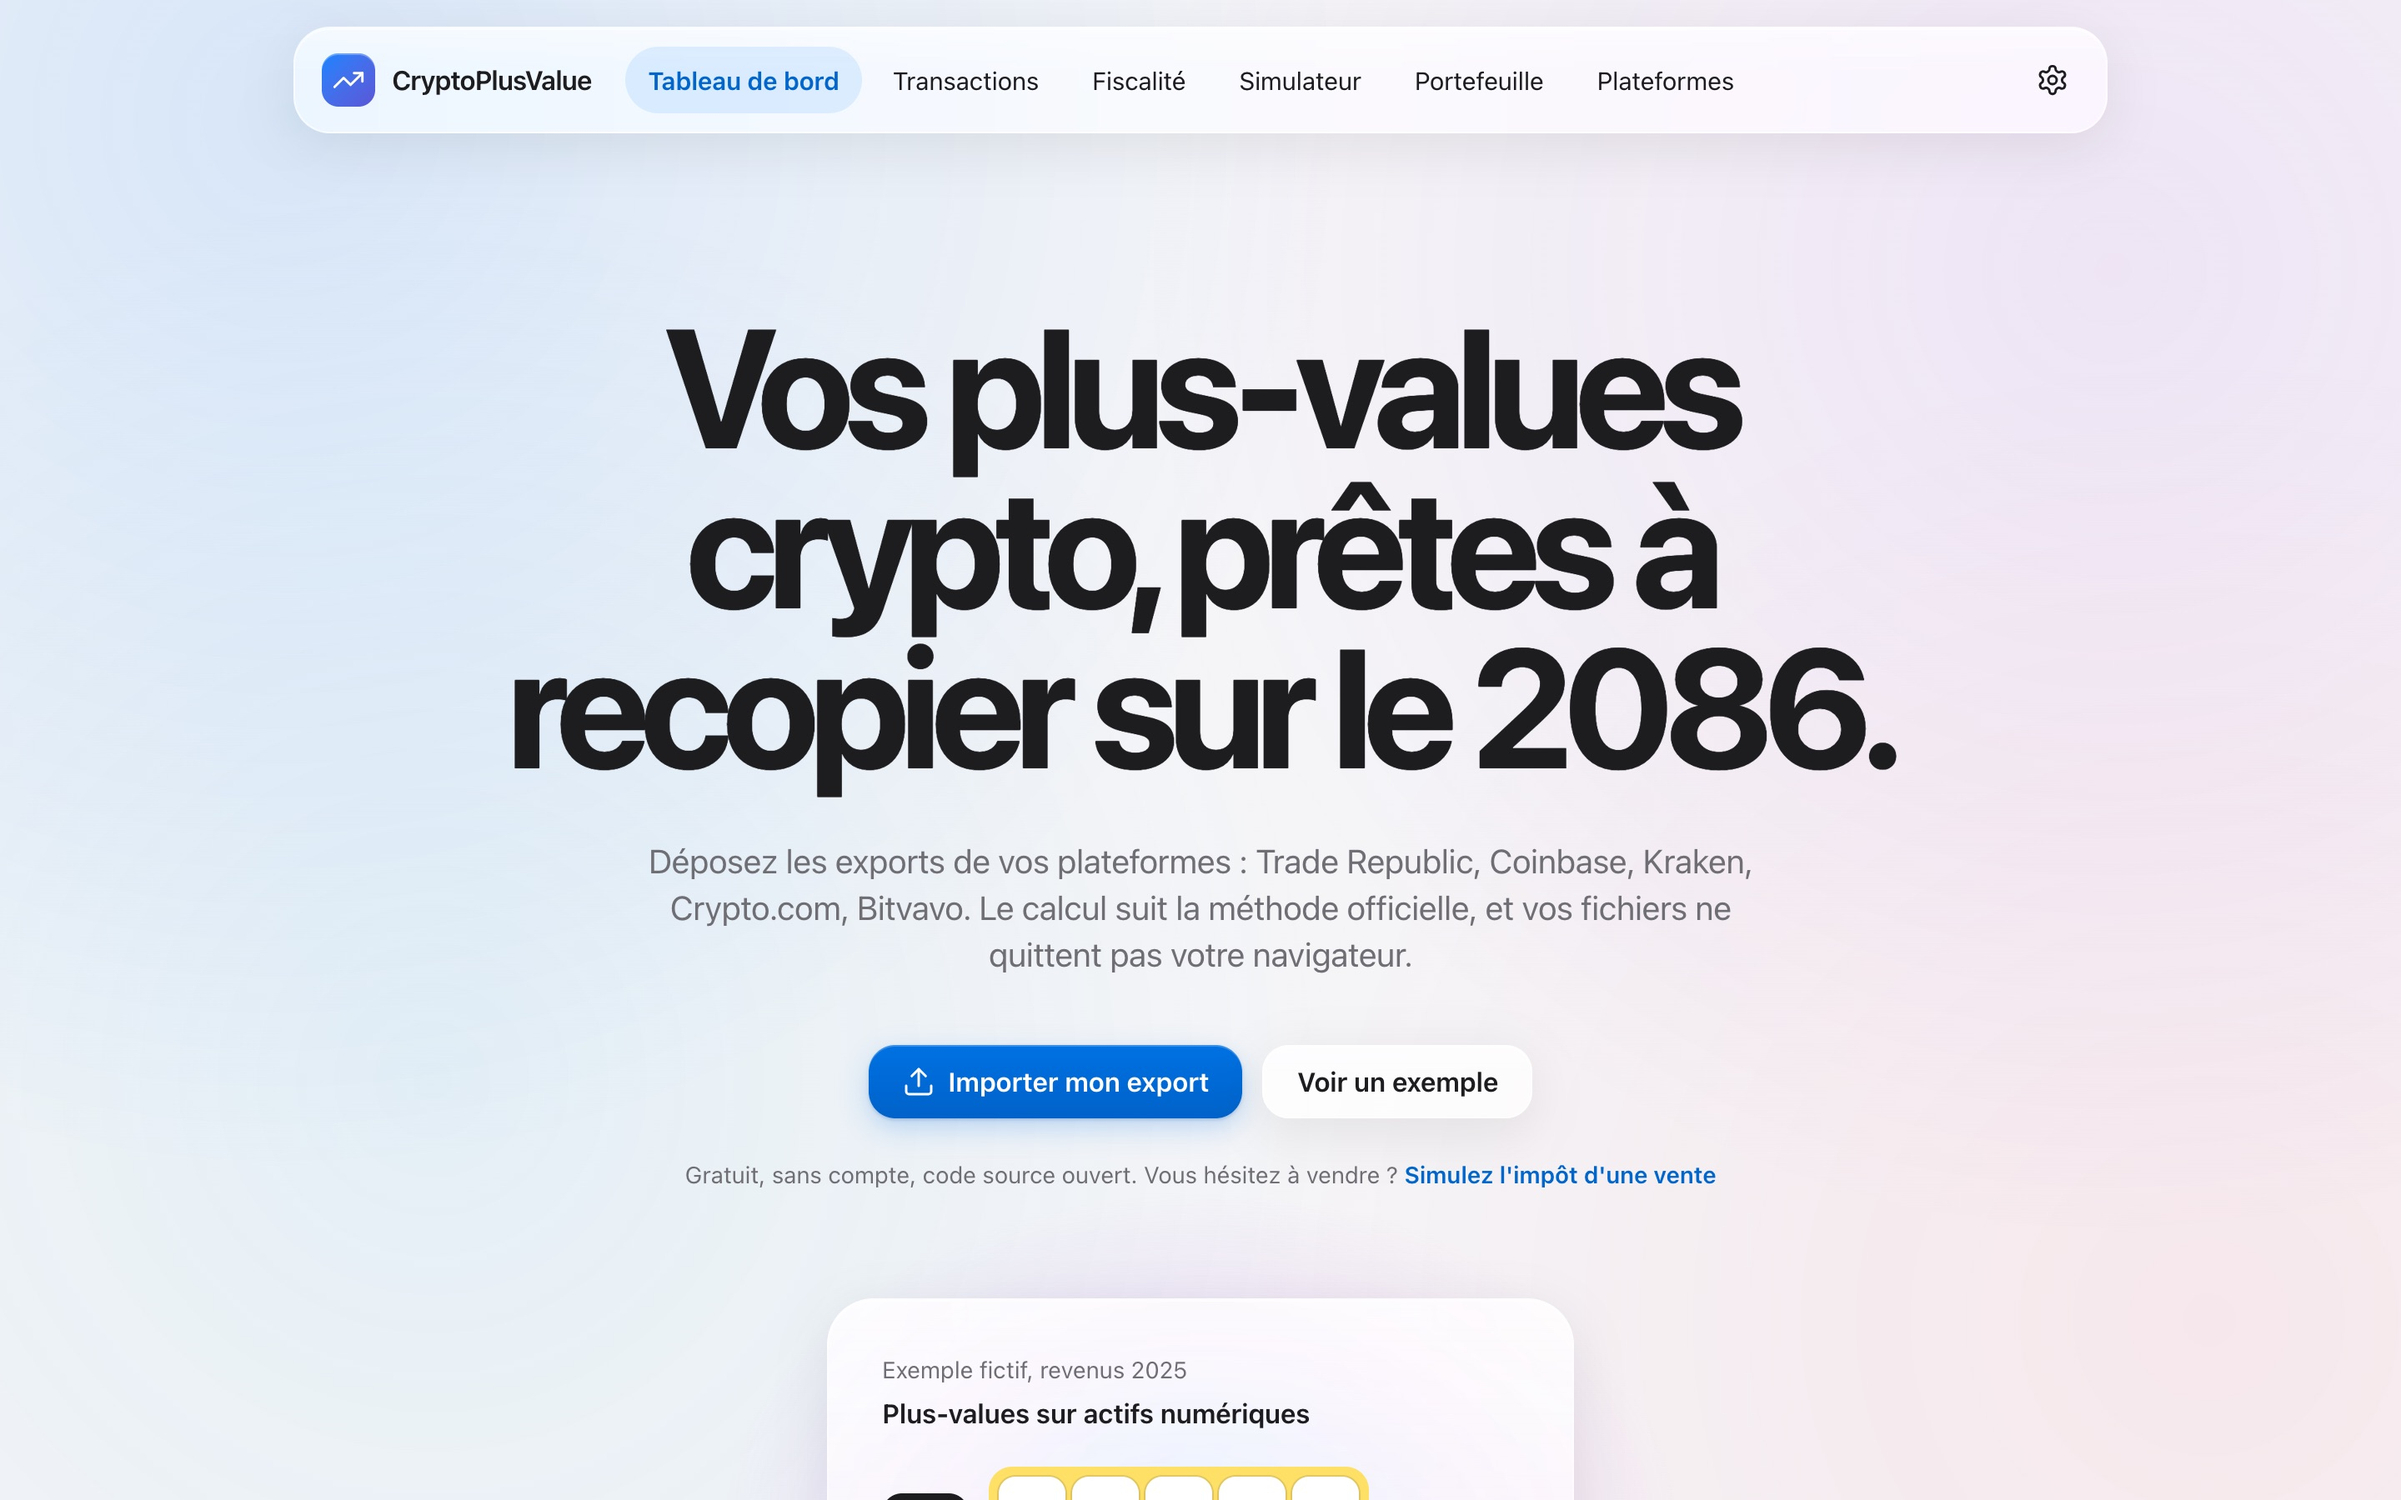
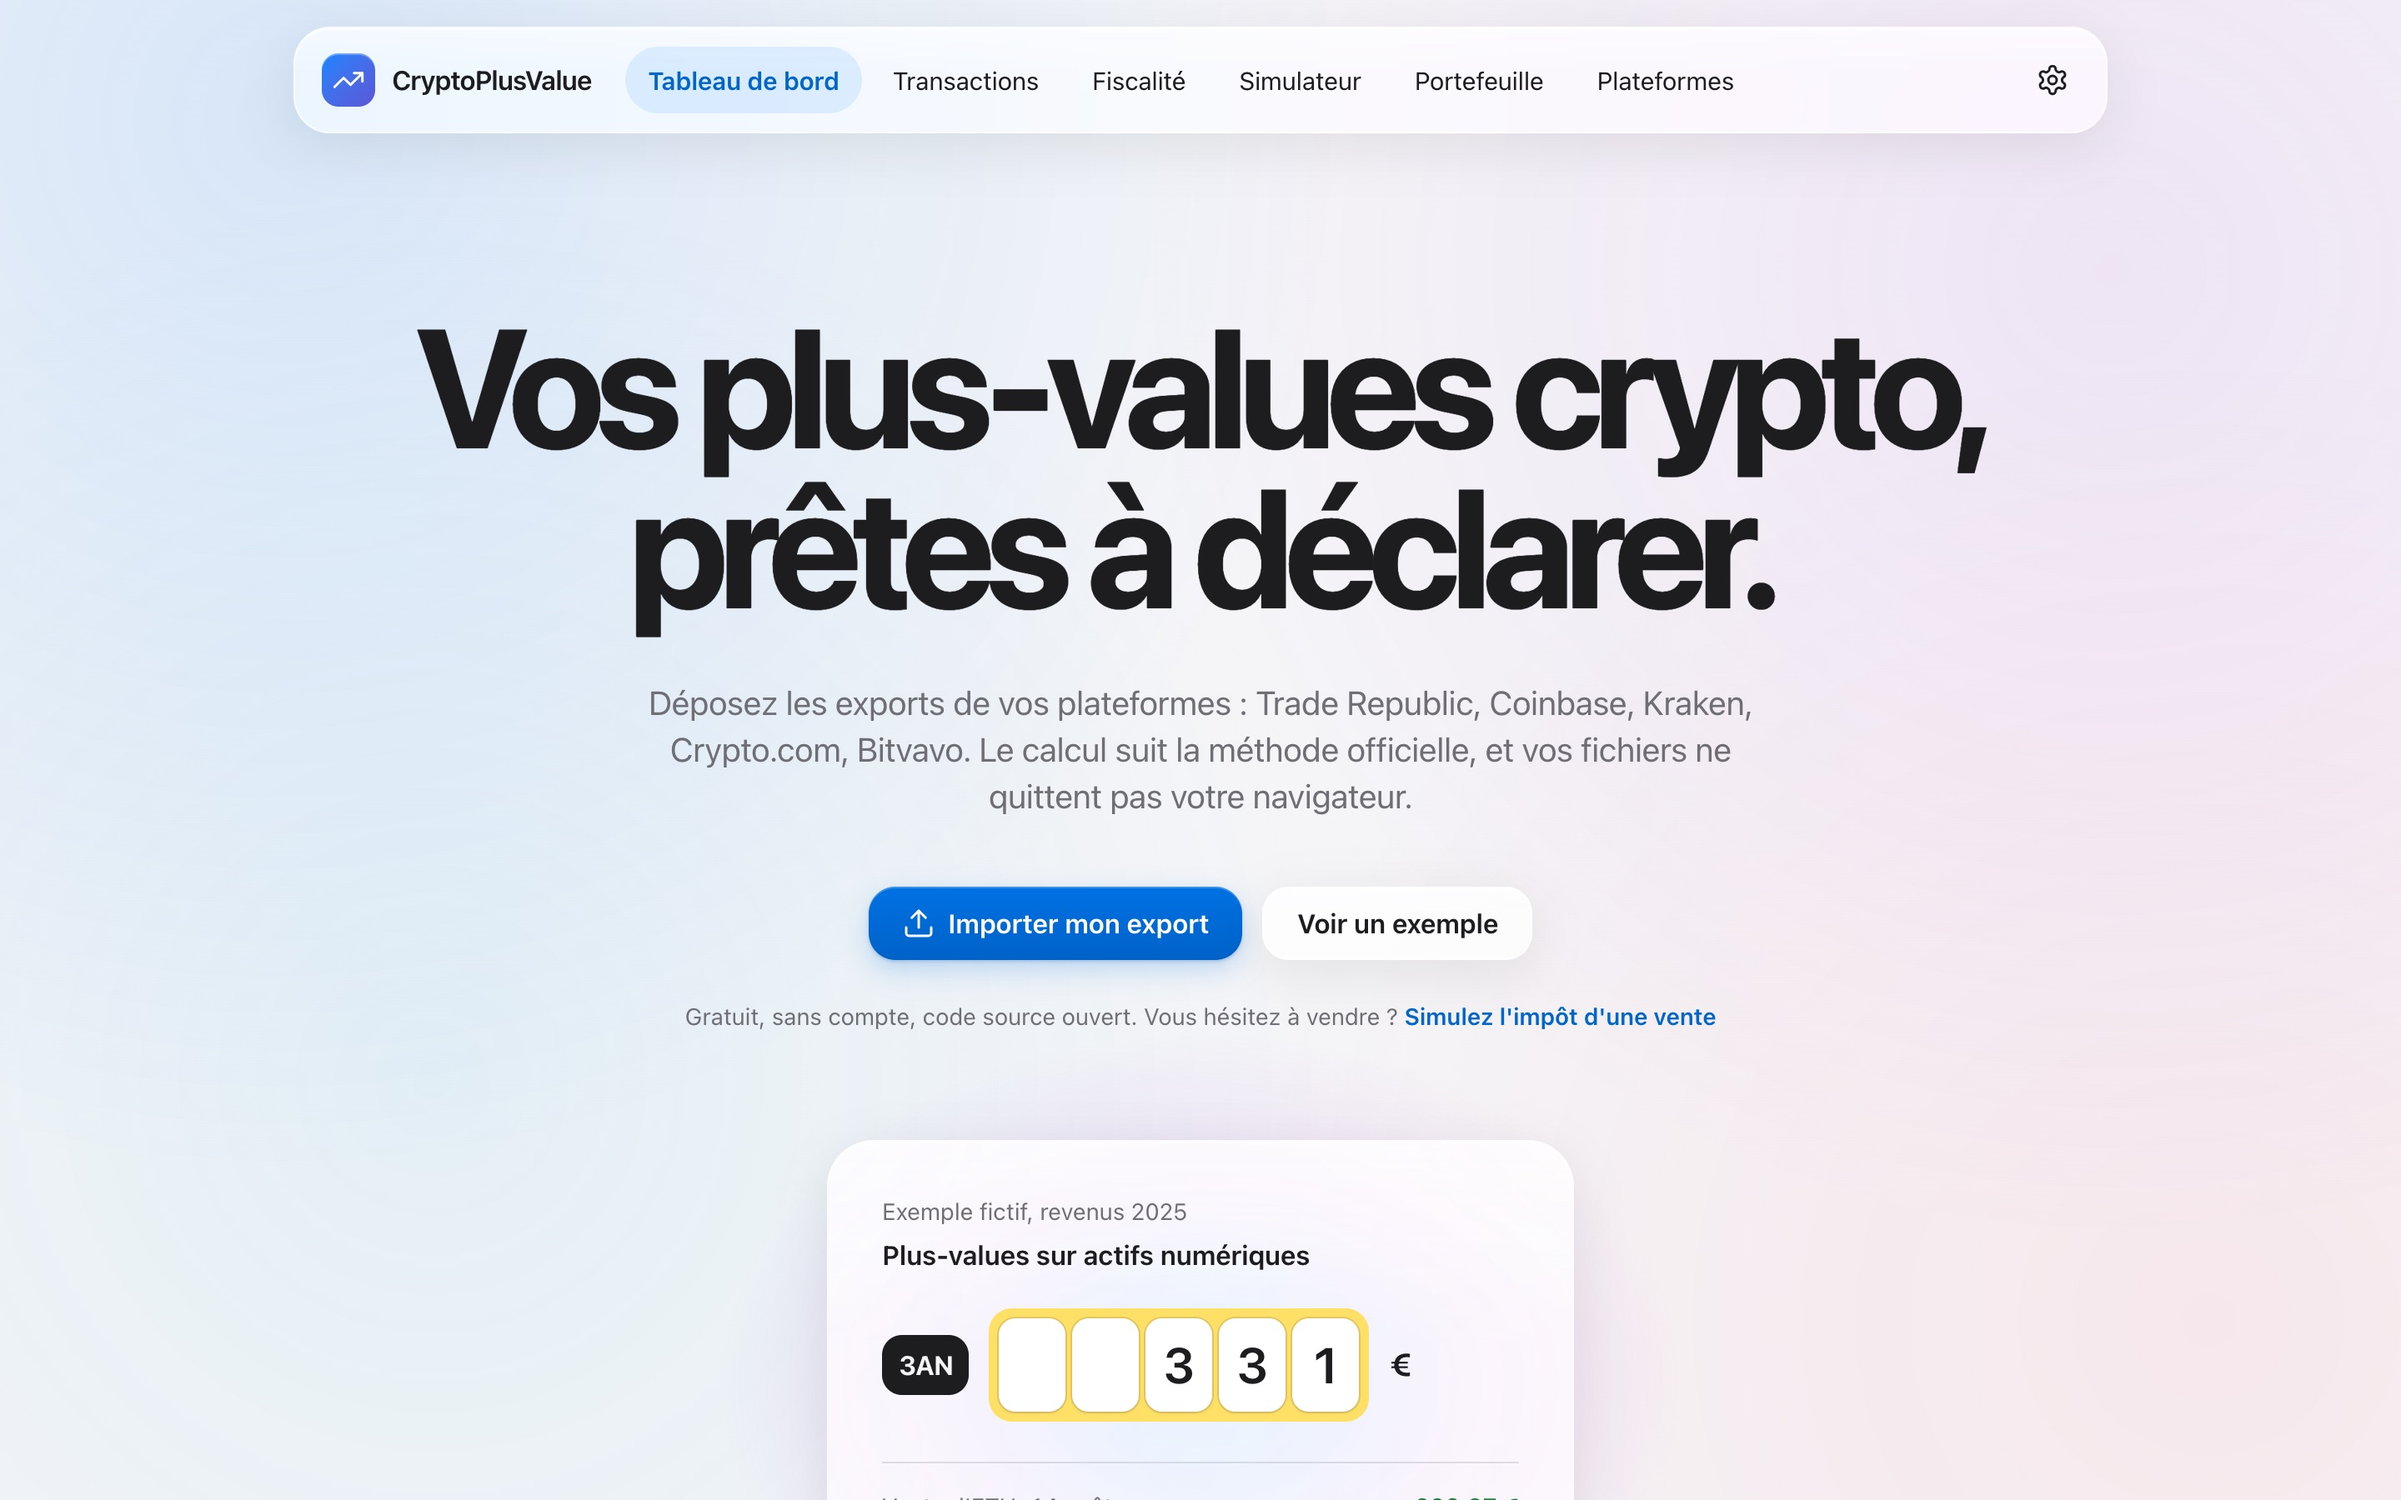
Titre de l'accueil : « Vos plus-values crypto, prêtes à déclarer. » (#30)

Changed region(s): [[0.1562, 0.2178, 0.8438, 0.84], [0.3438, 0.8711, 0.625, 1.0]]

diff --git a/e2e/accueil.spec.ts b/e2e/accueil.spec.ts
@@ -3,7 +3,7 @@ import { accessibilityViolations, expect, test } from './fixtures'
 test('présente l’outil et propose d’importer ou d’essayer l’exemple', async ({ page }) => {
   await page.goto('/')
   await expect(page.getByRole('heading', { level: 1 })).toHaveText(
-    'Vos plus-values crypto, prêtes à recopier sur le 2086.',
+    'Vos plus-values crypto, prêtes à déclarer.',
   )
   await expect(page.getByRole('button', { name: 'Importer mon export' })).toBeVisible()
   await expect(page.getByRole('button', { name: 'Voir un exemple' })).toBeVisible()
@@ -18,7 +18,7 @@ test('l’exemple ouvre le tableau de bord en mode démonstration, qu’on peut 
   await expect(page.getByText('Mode démonstration.')).toBeVisible()
   await page.getByRole('button', { name: 'Quitter la démonstration' }).click()
   await expect(page.getByRole('heading', { level: 1 })).toHaveText(
-    'Vos plus-values crypto, prêtes à recopier sur le 2086.',
+    'Vos plus-values crypto, prêtes à déclarer.',
   )
 })
 

diff --git a/app/components/OnboardingHero.vue b/app/components/OnboardingHero.vue
@@ -32,7 +32,7 @@ const STEPS = [
   <div>
     <section class="pt-6 pb-16 text-center sm:pt-12 lg:pt-16">
       <h1 class="enter text-hero mx-auto max-w-5xl text-balance">
-        Vos plus-values crypto, prêtes à recopier sur le 2086.
+        Vos plus-values crypto, prêtes à déclarer.
       </h1>
       <p
         class="enter mx-auto mt-8 max-w-2xl text-lg text-pretty text-muted sm:text-xl"

diff --git a/e2e/parametres.spec.ts b/e2e/parametres.spec.ts
@@ -58,7 +58,7 @@ test('efface tout après confirmation', async ({ page }) => {
   await expect(page.getByText('Tout a été effacé de ce navigateur.')).toBeVisible()
   await page.goto('/')
   await expect(page.getByRole('heading', { level: 1 })).toHaveText(
-    'Vos plus-values crypto, prêtes à recopier sur le 2086.',
+    'Vos plus-values crypto, prêtes à déclarer.',
   )
 })
 

diff --git a/CHANGELOG.md b/CHANGELOG.md
@@ -4,6 +4,10 @@ Les changements notables, du plus récent au plus ancien. Chaque entrée renvoie
 
 ## 9 octobre 2026
 
+### Titre de l'accueil
+
+- « Vos plus-values crypto, prêtes à déclarer. » remplace « prêtes à recopier sur le 2086 ».
+
 ### Navigation en haut sur ordinateur
 
 - La barre latérale laisse place à une barre de navigation en haut, en verre, alignée sur le
